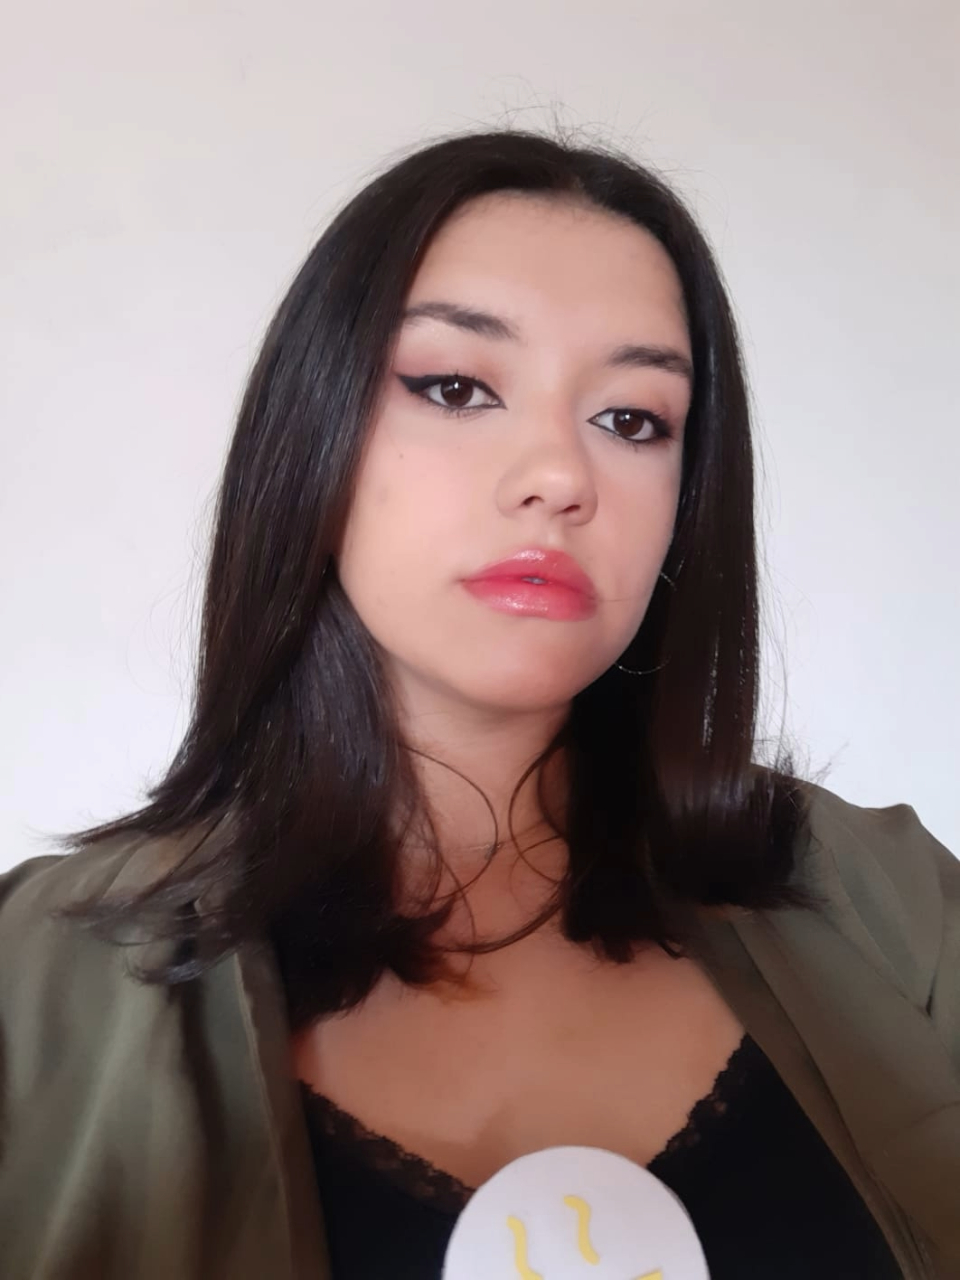
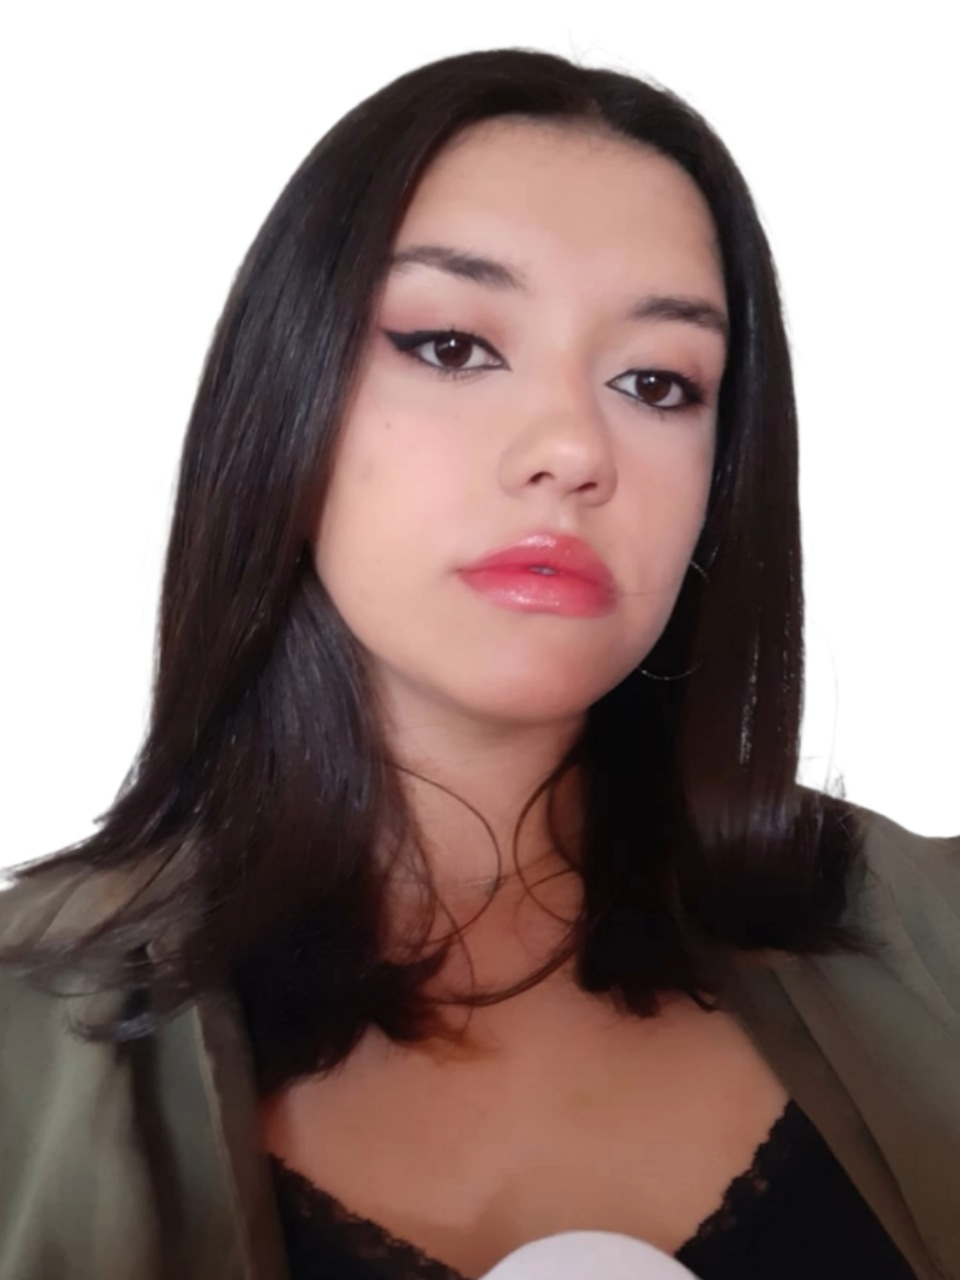
update(): padronizaçao fotos sobre nós && hover botoes

diff --git a/site/public/sobre_nos.html b/site/public/sobre_nos.html
@@ -190,7 +190,7 @@
         </div>
         <div class="time_um">
             <div class="membros">
-                <img src="./assets/imgs/alexandre.jpg" alt="membro da equipe">
+                <img src="./assets/imgs/ale.jpg" alt="membro da equipe">
                 <span> Alexandre Murata </span>
                 <div id="member_icons">
                     <img src="assets/icon/facebook.png" alt="">
@@ -199,7 +199,7 @@
                 </div>
             </div>
             <div class="membros">
-                <img src="./assets/imgs/edson.png" alt="membro da equipe">
+                <img src="./assets/imgs/edson.jpg" alt="membro da equipe">
                 <span> Edson Nogueira </span>
                 <div id="member_icons">
                     <img src="assets/icon/facebook.png" alt="">
@@ -208,7 +208,7 @@
                 </div>
             </div>
             <div class="membros">
-                <img src="./assets/imgs/lucas.png" alt="membro da equipe">
+                <img src="./assets/imgs/lucas.jpg" alt="membro da equipe">
                 <span> Lucas Buriola </span>
                 <div id="member_icons">
                     <img src="assets/icon/facebook.png" alt="">
@@ -228,7 +228,7 @@
                 </div>
             </div>
             <div class="membros">
-                <img src="./assets/imgs/rafael.png" alt="membro da equipe">
+                <img src="./assets/imgs/rafa.jpg" alt="membro da equipe">
                 <span> Rafael Cebrian </span>
                 <div id="member_icons">
                     <img src="assets/icon/facebook.png" alt="">
@@ -237,7 +237,7 @@
                 </div>
             </div>
             <div class="membros">
-                <img src="./assets/imgs/Ruan.jpeg" alt="membro da equipe">
+                <img src="./assets/imgs/ruan.jpg" alt="membro da equipe">
                 <span> Ruan Cardozo </span>
                 <div id="member_icons">
                     <img src="assets/icon/facebook.png" alt="">

diff --git a/site/public/css/home.css b/site/public/css/home.css
@@ -462,7 +462,7 @@ body {
     align-items: center;
 }
 
-.butao .btn-contact {
+.butao button{
     width: 30%;
     height: 60%;
     margin-top: 50px;
@@ -480,10 +480,11 @@ body {
 }
 
 .butao :hover {
-    background-color: #E0E0E0;
-    color: #4B3753;
+    background-color: white !important;
+    cursor: pointer !important;
+    color: black !important;
+    transition-duration: 1s !important;
     cursor: pointer;
-    transform: scale(1.1);
 }
 
 .banner_parte_04 .imagens {
@@ -679,7 +680,6 @@ body {
     flex-direction: column;
     justify-content: space-evenly;
     width: 100%;
-    margin-top: -10%;
 }
 
 #telefone {
